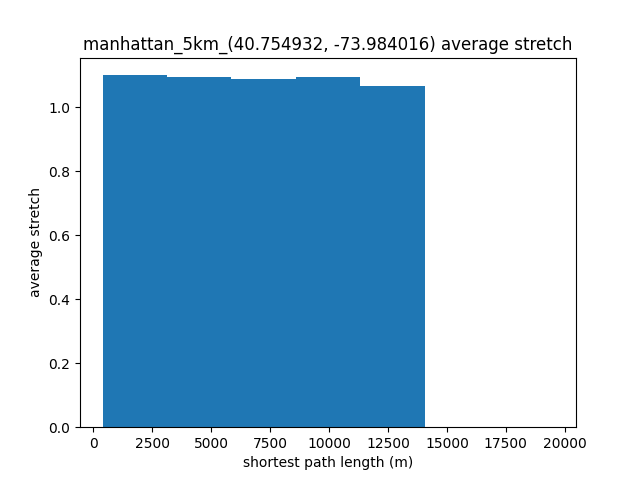
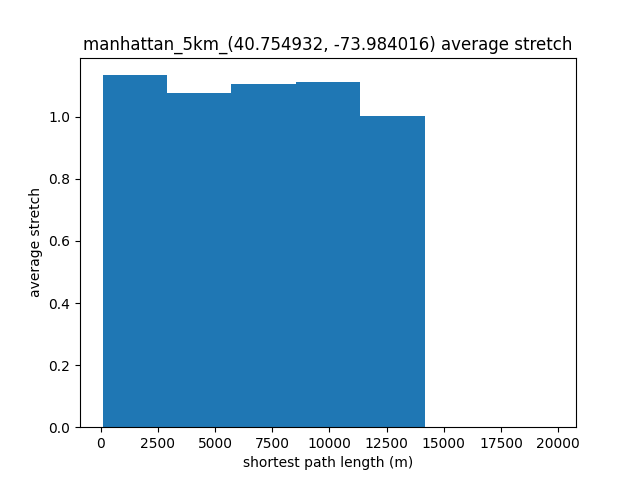
euclidian was wrong so changed it to haversine and fixed it a bit

diff --git a/greedy_forwarding_with_edgelength.py b/greedy_forwarding_with_edgelength.py
@@ -5,10 +5,10 @@ import osmnx as ox
 import networkx as nx
 
 """
-does normal greedy forwarding it stops when a cycle is discovered or no neighbors are found (which is only possible in a directed graph)
+does greedy forwarding including edge length it stops when a cycle is discovered or no neighbors are found (which is only possible in a directed graph)
 """
 
-def greedy_forwarding(id1, id2, graph): # id1 is start node id2 is go to node
+def greedy_forwarding_with_edge_length(id1, id2, graph): # id1 is start node id2 is go to node
   inf = np.inf
   total_nodes = graph.nodes()
 
@@ -21,9 +21,11 @@ def greedy_forwarding(id1, id2, graph): # id1 is start node id2 is go to node
   while (current_node != id2):
     
     min_distance = inf
+
     for neighbor_node in graph.neighbors(current_node):
       if neighbor_node != current_node: # eliminate cycles
-        new_distance = cf.distance(id2, neighbor_node, graph) # end node is id2 so try to get closer to this end node
+        new_distance = cf.distance(id2, neighbor_node, graph) + nf.get_edge_length(current_node, neighbor_node, graph) # end node is id2 so try to get closer to this end node
+        
         if new_distance < min_distance:
           node_with_min_distance = neighbor_node
           min_distance = new_distance
@@ -34,9 +36,7 @@ def greedy_forwarding(id1, id2, graph): # id1 is start node id2 is go to node
     if node_with_min_distance in visited: # can't be together with the above if else could be referenced before assignment
       return inf
 
-    edge_length = nf.get_edge_length(current_node, node_with_min_distance, graph)
-
-    distance_travelled += edge_length
+    distance_travelled += nf.get_edge_length(current_node, node_with_min_distance, graph)
     current_node = node_with_min_distance
 
     visited.add(current_node) 

diff --git a/coordinate_functions.py b/coordinate_functions.py
@@ -24,7 +24,11 @@ def distance(node_id1, node_id2, graph): # calculates the haversine distance
   y2, x2 = get_coordinates(node_id2, graph)
   return haversine((y1,x1),(y2,x2))
 
-def euclid_distance(node_id1, node_id2, graph):
+def euclid_distance(node_id1, node_id2, graph): # DO NOT USE
   y1, x1 = get_coordinates(node_id1, graph)
   y2, x2 = get_coordinates(node_id2, graph)
-  return ((x1-x2)**2 + (y1-y2)**2)**(0.5)
+  deglen = 110.25 # source https://jonisalonen.com/2014/computing-distance-between-coordinates-can-be-simple-and-fast/
+  lat = y1 - y2
+  long = (x1 - x2)
+    
+  return  (lat**2 + long**2)**(0.5) * np.pi / 180 * 6371000

diff --git a/compare_speed.py b/compare_speed.py
@@ -60,7 +60,7 @@ def speed_comparator(name, number_of_routes): # generates the data for greedy fo
   plt.bar(['networkx dijkstra', 'dijkstra', 'dwpq', 'A*'],np.array([dijkstra_networkx_speed, dijkstra_speed, dwpq_speed, a_star_speed])/number_of_routes)
   plt.title(f'{name} execution time per path')
   plt.xlabel('method')
-  plt.ylabel('execution time per path')
+  plt.ylabel('execution time per path (s)')
   plt.savefig(f'./speed_comparison/{name}_execution_time_per_path.png')
 
 speed_comparator('brugge_5km_(51.209348, 3.224700)', 10**2)

diff --git a/generate_data.py b/generate_data.py
@@ -4,7 +4,7 @@ import matplotlib.pyplot as plt
 import networkx as nx
 import gc
 import greedy_forwarding_route as gf
-
+import greedy_forwarding_with_edgelength as gfwe
 
 """
 generates stretch and arrival percentage histograms for the desired function
